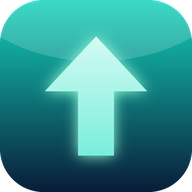
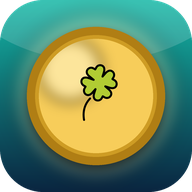
feat: アイコンをラッキーコイン(四つ葉+金貨)に刷新・タグ操作を簡素化
- アイコン刷新: 自前描画の金貨にOpenMojiの四つ葉を合成した
  ラッキーコイン(teal→navyグラデ+後光+影)。READMEにCCクレジット追記
- タグ絞り込み: 「いずれか/すべて含む」トグルを廃止し常にOR(合算)に固定
  「解除」は維持。文言を「選択タグ N を合算中」に変更
- SWキャッシュ v5

diff --git a/js/app.js b/js/app.js
@@ -43,7 +43,6 @@
     tagFilter: $('tag-filter'),
     tagFilterControls: $('tag-filter-controls'),
     tagFilterCount: $('tag-filter-count'),
-    tagMode: $('tag-mode'),
     tagClear: $('tag-clear'),
     navBtns: document.querySelectorAll('.nav-btn'),
     views: document.querySelectorAll('.view'),
@@ -60,8 +59,7 @@
   };
 
   // ---- 拡張状態 ----
-  const tagFilter = new Set();
-  let tagFilterMode = 'or'; // or | and
+  const tagFilter = new Set(); // 選択タグを合算（OR）
   let activeView = 'summary';
   const range = { from: null, to: null }; // YYYY-MM-DD
 
@@ -167,10 +165,7 @@
   // ---- タグ絞り込み（複数選択して合算） ----
   function applyTagFilter(list) {
     if (tagFilter.size === 0) return list;
-    if (tagFilterMode === 'and') {
-      return list.filter((e) => [...tagFilter].every((t) => e.tags.includes(t)));
-    }
-    return list.filter((e) => e.tags.some((t) => tagFilter.has(t)));
+    return list.filter((e) => e.tags.some((t) => tagFilter.has(t))); // いずれかを含む＝合算
   }
 
   function renderTagFilterChips() {
@@ -184,11 +179,8 @@
           `<button type="button" class="chip ${tagFilter.has(t) ? 'on' : ''}" data-ftag="${escapeHtml(t)}">${escapeHtml(t)}</button>`
         ).join('')
       : '<span class="empty" style="padding:2px 0">タグはまだありません</span>';
-    const has = tagFilter.size > 0;
-    els.tagFilterControls.hidden = !has;
+    els.tagFilterControls.hidden = tagFilter.size === 0;
     els.tagFilterCount.textContent = String(tagFilter.size);
-    els.tagMode.textContent = tagFilterMode === 'and' ? 'すべて含む' : 'いずれか';
-    els.tagMode.classList.toggle('on', tagFilterMode === 'and');
   }
 
   function netClass(n) {
@@ -560,10 +552,6 @@
       if (!btn) return;
       const t = btn.dataset.ftag;
       if (tagFilter.has(t)) tagFilter.delete(t); else tagFilter.add(t);
-      render();
-    });
-    els.tagMode.addEventListener('click', () => {
-      tagFilterMode = tagFilterMode === 'or' ? 'and' : 'or';
       render();
     });
     els.tagClear.addEventListener('click', () => { tagFilter.clear(); render(); });

diff --git a/index.html b/index.html
@@ -44,8 +44,7 @@
 
       <div class="tag-filter" id="tag-filter"></div>
       <div class="tag-filter-controls" id="tag-filter-controls" hidden>
-        <span class="tfc-label">選択タグ <span id="tag-filter-count">0</span></span>
-        <button id="tag-mode" class="mini-btn" type="button">いずれか</button>
+        <span class="tfc-label">選択タグ <span id="tag-filter-count">0</span> を合算中</span>
         <button id="tag-clear" class="mini-btn" type="button">解除</button>
       </div>
 

diff --git a/sw.js b/sw.js
@@ -1,7 +1,7 @@
 // 収支トラッカー — Service Worker（オフライン対応）
 'use strict';
 
-const CACHE = 'shushi-tracker-v4';
+const CACHE = 'shushi-tracker-v5';
 const ASSETS = [
   './',
   './index.html',

diff --git a/README.md b/README.md
@@ -50,6 +50,9 @@ python -m http.server 8000
 
 収支 = `return - stake`、回収率 = `return / stake × 100`。
 
+## クレジット
+- アイコンの四つ葉グラフィックは [OpenMoji](https://openmoji.org/)（CC BY-SA 4.0）を使用し、金貨・背景は本プロジェクトで描画・合成。
+
 ## 今後の候補
 - グラフ（推移の折れ線）
 - タグの複数条件フィルタ（AND/OR）
